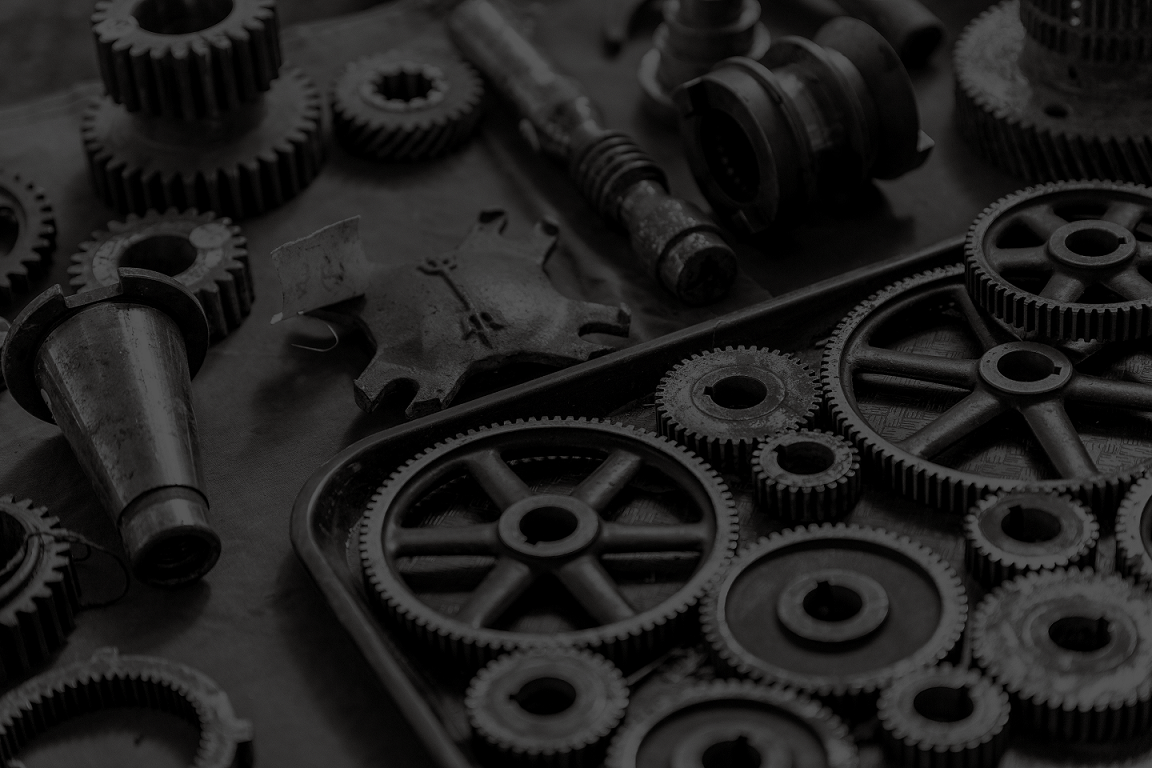
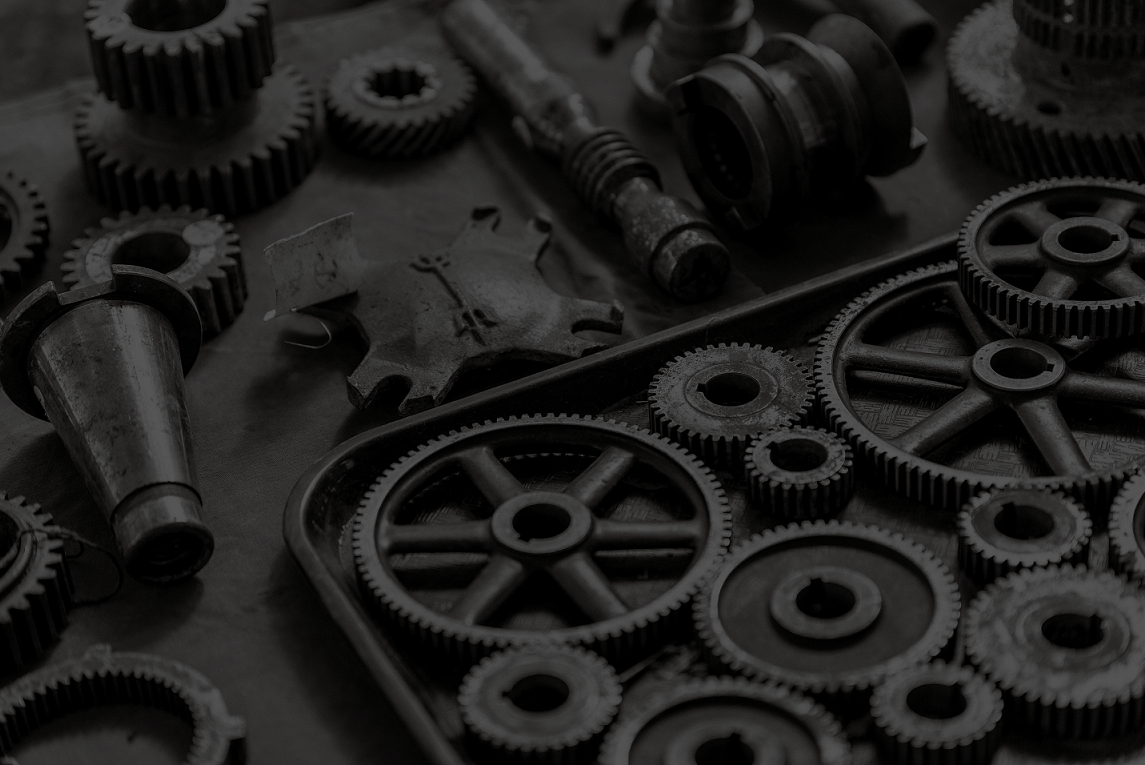
Parallax tweak

diff --git a/app/homepage/homepage.html b/app/homepage/homepage.html
@@ -1,8 +1,10 @@
+<div id="gears-parallax">
 <div class="parallax-container">
-    <div class="parallax"><img class="gears-pic" src="assets/images/239H.png">
+    <div class="parallax"><img class="gears-pic" src="assets/images/gears.jpg">
         <h1 id="header-text1">Your Tint Specialist</h1>
         <h2 id="header-text2">Serving the valley since '91</h2>
     </div>
+</div>
 </div>
 
 <div id="whoarewe-block">
@@ -27,9 +29,10 @@
 </div>
 
 
-
+<div id="mustang-parallax">
 <div class="parallax-container">
     <div class="parallax"><img src="assets\images\mustang-garage-mirror-black-car.jpg"></div>
+</div>
 </div>
 
 
